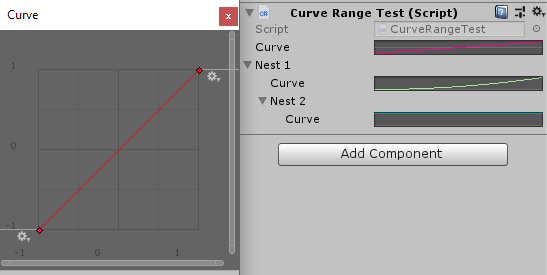
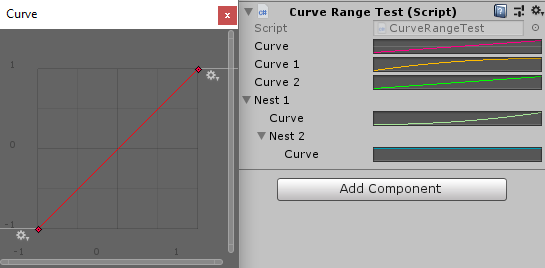
added more CurveRange types

diff --git a/Assets/NaughtyAttributes/Scripts/Core/DrawerAttributes/CurveRangeAttribute.cs b/Assets/NaughtyAttributes/Scripts/Core/DrawerAttributes/CurveRangeAttribute.cs
@@ -12,22 +12,35 @@ namespace NaughtyAttributes
         public float height { get; private set; }
         public EColor color { get; private set; }
 
-        public CurveRangeAttribute(float width, float height)
+        /// <summary>
+        /// Draw a curve within specified bounds
+        /// </summary>
+        /// <param name="width">the width of the curve graph</param>
+        /// <param name="height">the height of the curve graph</param>
+        public CurveRangeAttribute(float width, float height) : 
+            this(width, height, EColor.Clear)
         {
-            this.x = 0;
-            this.y = 0;
-            this.width = width;
-            this.height = height;
-            this.color = EColor.Green;
+            // EColor.Clear is used to mark default AnimationCurve color
         }
 
         /// <summary>
-        /// Draw a curve within specified width and height bounds
+        /// Draw a curve within specified bounds and color
         /// </summary>
-        /// <param name="x">the x value the rect is measured from</param>
-        /// <param name="y">the y value the rect is measured from</param>
-        /// <param name="width">the width of the rectangle</param>
-        /// <param name="height">the height of the rectangle</param>
+        /// <param name="width">the width of the curve graph</param>
+        /// <param name="height">the height of the curve graph</param>
+        /// <param name="color">the color of the curve</param>
+        public CurveRangeAttribute(float width, float height, EColor color) :
+            this(0, 0, width, height, color)
+        {
+        }
+
+        /// <summary>
+        /// Draw a curve within specified bounds and color
+        /// </summary>
+        /// <param name="x">the x value the curve graph is measured from</param>
+        /// <param name="y">the y value the curve graph is measured from</param>
+        /// <param name="width">the width of the curve graph</param>
+        /// <param name="height">the height of the curve graph</param>
         /// <param name="color">the color of the curve</param>
         public CurveRangeAttribute(float x, float y, float width, float height, EColor color)
         {

diff --git a/Assets/NaughtyAttributes/Scripts/Editor/PropertyDrawers/CurveRangeAttributePropertyDrawer.cs b/Assets/NaughtyAttributes/Scripts/Editor/PropertyDrawers/CurveRangeAttributePropertyDrawer.cs
@@ -8,11 +8,21 @@ namespace NaughtyAttributes.Editor
     {
         protected override void OnGUI_Internal(Rect rect, SerializedProperty property, GUIContent label)
         {
+            // Check user error
+            if (property.propertyType != SerializedPropertyType.AnimationCurve)
+            {
+                string message = string.Format("Field {0} is not an AnimationCurve", property.name);
+                DrawDefaultPropertyAndHelpBox(rect, property, message, MessageType.Warning);
+                return;
+            }
+
             var attribute = PropertyUtility.GetAttribute<CurveRangeAttribute>(property);
             EditorGUI.BeginProperty(rect, label, property);
-            //EditorGUI.PropertyField(rect, property, label, true);
-            EditorGUI.CurveField(rect, property, attribute.color.GetColor(),
+
+            EditorGUI.CurveField(rect, property, 
+                attribute.color == EColor.Clear ? Color.green : attribute.color.GetColor(),
                 new Rect(attribute.x, attribute.y, attribute.width, attribute.height));
+
             EditorGUI.EndProperty();
         }
     }

diff --git a/Assets/NaughtyAttributes/Scripts/Core/Utility/EColor.cs b/Assets/NaughtyAttributes/Scripts/Core/Utility/EColor.cs
@@ -4,6 +4,7 @@ namespace NaughtyAttributes
 {
 	public enum EColor
 	{
+		Clear,
 		White,
 		Black,
 		Gray,
@@ -23,6 +24,8 @@ namespace NaughtyAttributes
 		{
 			switch (color)
 			{
+				case EColor.Clear:
+					return new Color32(0, 0, 0, 0);
 				case EColor.White:
 					return new Color32(255, 255, 255, 255);
 				case EColor.Black:

diff --git a/Assets/NaughtyAttributes/Scripts/Test/CurveRangeTest.cs b/Assets/NaughtyAttributes/Scripts/Test/CurveRangeTest.cs
@@ -7,6 +7,10 @@ public class CurveRangeTest : MonoBehaviour
 {
     [CurveRange(-1, -1, 2, 2, EColor.Red)]
     public AnimationCurve curve;
+    [CurveRange(1, 1, EColor.Orange)]
+    public AnimationCurve curve1;
+    [CurveRange(10, 10)]
+    public AnimationCurve curve2;
     public CurveRangeNest1 nest1;
 
 	[System.Serializable]
